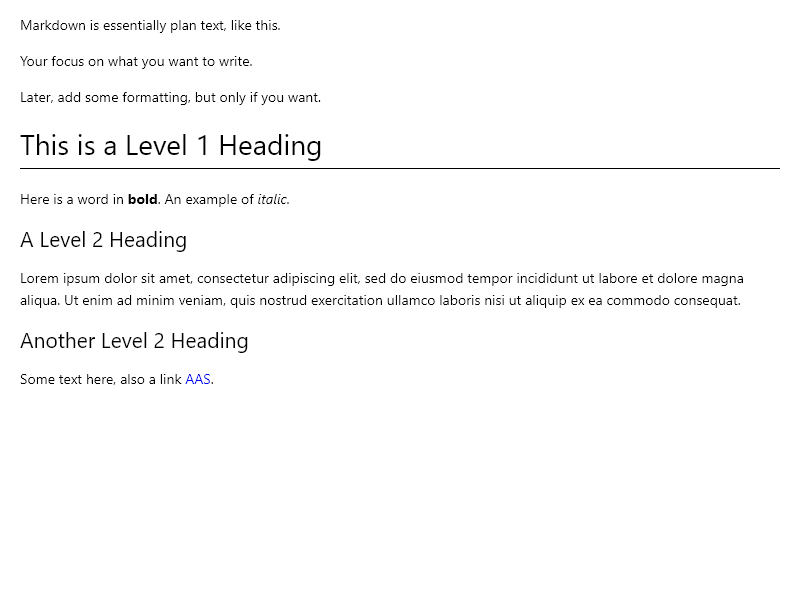
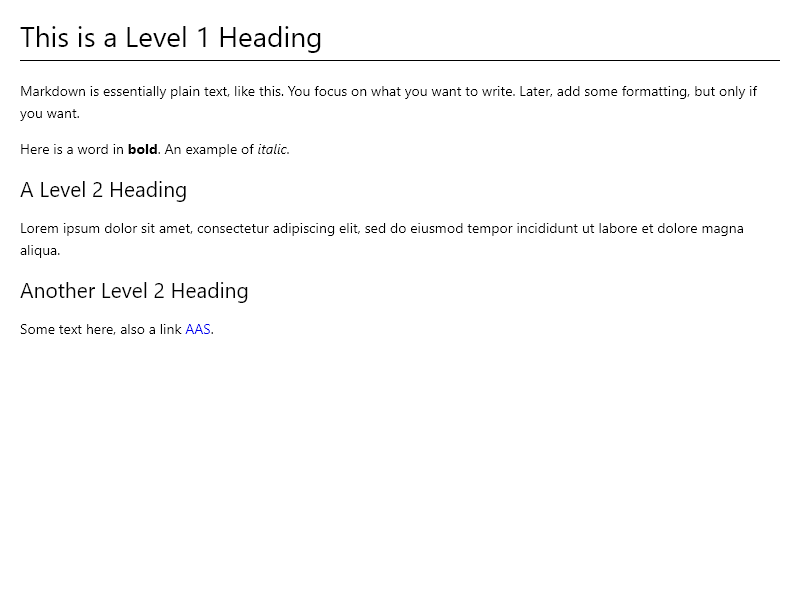
final

diff --git a/slides/Slides.md b/slides/Slides.md
@@ -33,21 +33,17 @@ footer: 'https://aas.upyesp.org'
 
 ## Example
 ```text
-Markdown is essentially plan text, like this.
-
-Your focus on what you want to write.
-
+# This is a Level 1 Heading
+Markdown is essentially plain text, like this.
+You focus on what you want to write.
 Later, add some formatting, but only if you want.
 
-# This is a Level 1 Heading
 Here is a word in **bold**. An example of *italic*.
 
 ## A Level 2 Heading
 Lorem ipsum dolor sit amet, consectetur adipiscing
 elit, sed do eiusmod tempor incididunt ut labore et
-dolore magna aliqua. Ut enim ad minim veniam, quis
-nostrud exercitation ullamco laboris nisi ut aliquip
-ex ea commodo consequat.
+dolore magna aliqua. 
 
 ## Another Level 2 Heading
 Some text here, also a link [AAS](https://andoverastronomy.org.uk/).
@@ -113,6 +109,26 @@ pie title Pets adopted by volunteers
     "Rats" : 15
 </div>
 
+---
+
+## Charts
+
+```text
+gantt
+    title Astronomical Events and Observations Plan (Jan-Apr 2025)
+    dateFormat YYYY-MM-DD
+    section Key Astronomical Events
+        Quadrantids Meteor Shower    :active, ev1, 2025-01-03, 2d
+        Venus Good viewing           :ev2, 2025-01-10, 1d
+        Lunar Eclipse                :ev3, 2025-03-14, 1d
+        Partial Solar Eclipse        :ev4, 2025-03-29, 1d
+        Lyrids Meteor Shower         :ev6, 2025-04-22, 2d
+    section Constraints
+        Full Moon (Jan)              :milestone, fm1, 2025-01-13, 1d
+        Full Moon (Feb)              :milestone, fm2, 2025-02-12, 1d
+        Full Moon (Mar)              :milestone, fm3, 2025-03-13, 1d
+        Full Moon (Apr)              :milestone, fm3, 2025-04-13, 1d
+```
 
 ---
 
